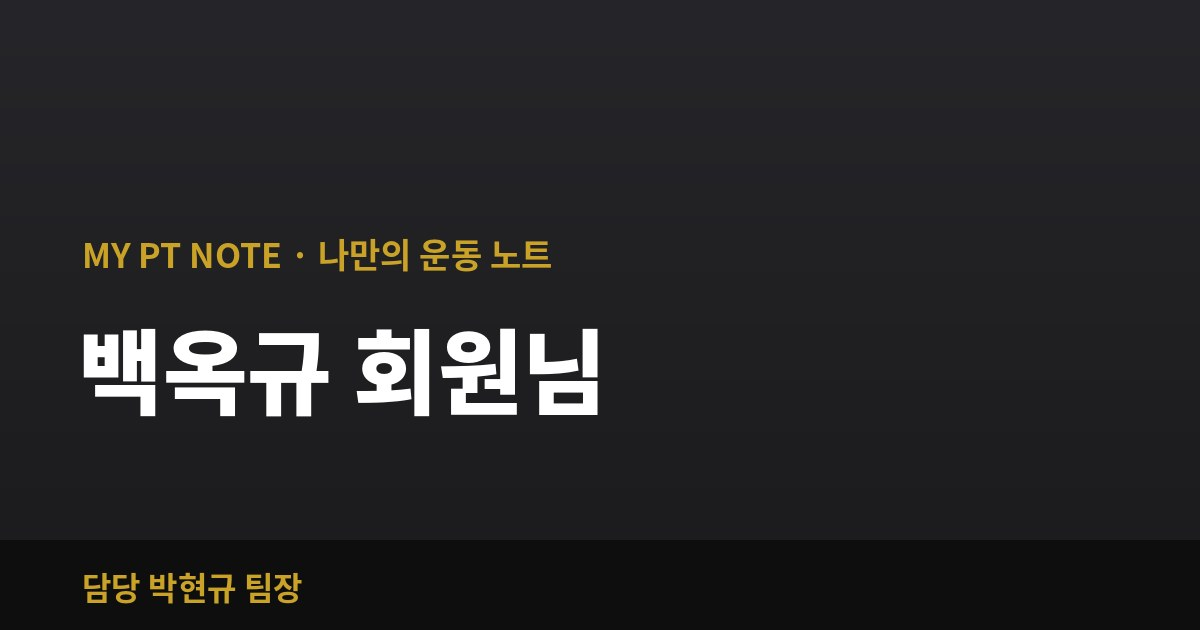
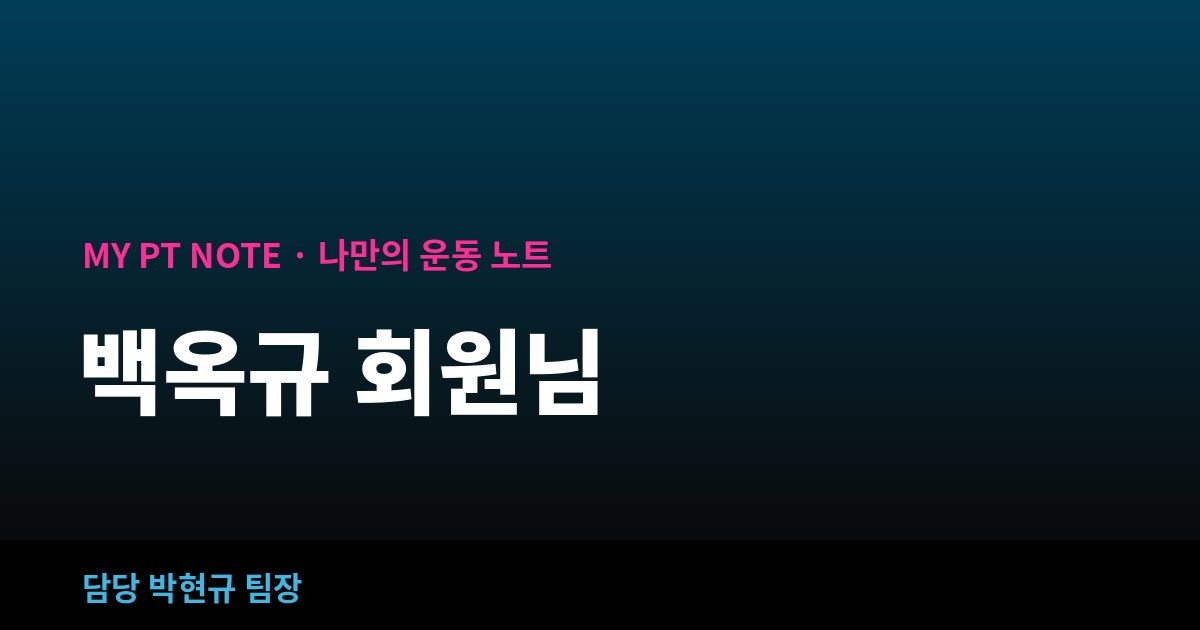
남성 기본 테마: 제트 블랙·세룰리언·네온 로즈 + 움직이는 그림 W·N 색 적용
Claude-Session: https://claude.ai/code/session_01RdMHchgwqezTpV2LneVZW2

diff --git a/coach-co8rde/index.html b/coach-co8rde/index.html
@@ -16,8 +16,8 @@
 <link rel="preconnect" href="https://fonts.googleapis.com">
 <link rel="preconnect" href="https://fonts.gstatic.com" crossorigin>
 <link rel="stylesheet" href="https://fonts.googleapis.com/css2?family=Noto+Sans+KR:wght@400;500;700;900&display=swap">
-<link rel="stylesheet" href="/assets/style.css?v=2611240038">
-<script src="/assets/site.js?v=2611240038"></script>
+<link rel="stylesheet" href="/assets/style.css?v=2611240040">
+<script src="/assets/site.js?v=2611240040"></script>
 <style>
 .wrap { padding-bottom: calc(40px + env(safe-area-inset-bottom, 0px)); }
 .sum { display: grid; grid-template-columns: repeat(3, 1fr); gap: 8px; }
@@ -371,7 +371,7 @@ body.pad .mcard.sel .av { outline: 3px solid var(--key); outline-offset: 3px; }
   "use strict";
   /* 옛 화면 자동 새로고침 (2026-11-23 팀장 "여기도 짐토스 있잖아" — 홈 화면 앱이 예전 페이지를 붙잡고 있었음). app.js와 같은 방식: assets/ver.txt가 지금 site.js ?v= 보다 새것이면 한 번 새로고침 */
   (function () {
-    var sc = document.querySelector('script[src*="/assets/site.js?v=2611240038"]'), cur = sc && (sc.getAttribute("src").match(/[?&]v=(\w+)/) || [])[1];
+    var sc = document.querySelector('script[src*="/assets/site.js?v=2611240040"]'), cur = sc && (sc.getAttribute("src").match(/[?&]v=(\w+)/) || [])[1];
     if (!cur || !window.fetch) return;
     function chk() {
       fetch("/assets/ver.txt?t=" + Date.now(), { cache: "no-store" }).then(function (r) { return r.ok ? r.text() : ""; }).then(function (v) {
@@ -1010,7 +1010,7 @@ body.pad .mcard.sel .av { outline: 3px solid var(--key); outline-offset: 3px; }
      2026-11-12 처음엔 Web Worker였는데 아이폰 사파리에서 동욱쌤 회원이 안 보여서 iframe으로 바꿈 */
   var XF = '<!doctype html><meta charset="utf-8"><script>(function(){var d=__D__,t="?t="+Date.now(),o={api:"",members:[]};' +
     'function ld(u){return new Promise(function(ok){var s=document.createElement("script");s.src=u;s.onload=s.onerror=function(){ok()};document.head.appendChild(s);});}' +
-    'ld(d.site+"/assets/site.js?v=2611240038"+t).then(function(){o.api=(window.SITE||{}).att_api||"";return ld(d.site+"/"+d.coach+"/members.js"+t);}).then(function(){' +
+    'ld(d.site+"/assets/site.js?v=2611240040"+t).then(function(){o.api=(window.SITE||{}).att_api||"";return ld(d.site+"/"+d.coach+"/members.js"+t);}).then(function(){' +
     'var L=(window.COACH_MEMBERS||[]).filter(function(x){return /^[a-z0-9-]{3,40}$/.test(x)}),i=0;' +
     'function nx(){if(i>=L.length){parent.postMessage(JSON.stringify({xpt:d.id,o:o}),"*");return;}var sl=L[i++];window.MEMBER=null;' +
     'ld(d.site+"/m/"+sl+"/data.js"+t).then(function(){if(window.MEMBER){try{o.members.push({slug:sl,M:JSON.parse(JSON.stringify(window.MEMBER))});}catch(e){}}nx();});}nx();});})();<\/script>';

diff --git a/m/sample-k7d2qx/index.html b/m/sample-k7d2qx/index.html
@@ -6,7 +6,7 @@
 <title>홍길동 회원님 PT 노트</title>
 <meta name="description" content="내 루틴, 자세 복습지, 식단, 선생님 공지를 한곳에서">
 <meta name="robots" content="noindex, nofollow">
-<meta name="theme-color" content="#1C1C1E">
+<meta name="theme-color" content="#0A0A0A">
 <meta name="apple-mobile-web-app-capable" content="yes">
 <meta name="mobile-web-app-capable" content="yes">
 <meta name="apple-mobile-web-app-status-bar-style" content="default">
@@ -17,14 +17,14 @@
 <meta property="og:image" content="https://gusrb0259-png.github.io/m/sample-k7d2qx/og.jpg">
 <meta property="og:image:width" content="1200">
 <meta property="og:image:height" content="630">
-<link rel="icon" href="../../assets/icon-m-192.png">
+<link rel="icon" href="../../assets/icon-n-192.png">
 <link rel="manifest" href="manifest.webmanifest">
-<link rel="apple-touch-icon" href="../../assets/icon-m-180.png">
+<link rel="apple-touch-icon" href="../../assets/icon-n-180.png">
 <link rel="preconnect" href="https://fonts.googleapis.com">
 <link rel="preconnect" href="https://fonts.gstatic.com" crossorigin>
 <link rel="stylesheet" href="https://fonts.googleapis.com/css2?family=Noto+Sans+KR:wght@400;500;700;900&display=swap">
 <script>/* 페이지 넘어갈 때 부드럽게 (2026-11-12) */try{if(localStorage.getItem("ptcoach")||sessionStorage.getItem("ptcoach"))document.documentElement.classList.add("nosp")}catch(e){}addEventListener("pagereveal",function(e){if(!e.viewTransition)return;var d=null;try{d=sessionStorage.getItem("vtdir");sessionStorage.removeItem("vtdir")}catch(x){}var n=window.navigation&&navigation.activation;if(d==="back"||(d!=="fwd"&&n&&n.navigationType==="traverse"))document.documentElement.classList.add("vt-back");e.viewTransition.finished.then(function(){document.documentElement.classList.remove("vt-back")},function(){})});</script>
-<link rel="stylesheet" href="../../assets/style.css?v=2611240038">
+<link rel="stylesheet" href="../../assets/style.css?v=2611240040">
 </head>
 <body>
 <svg width="0" height="0" style="position:absolute" aria-hidden="true">
@@ -41,8 +41,8 @@
   <a href="#notice" data-tab="notice"><svg viewBox="0 0 24 24" fill="none" stroke="currentColor" stroke-width="2" stroke-linejoin="round"><path d="M4 10v4h3l6 4V6L7 10z"/><path d="M16.5 9.5a3.5 3.5 0 0 1 0 5M19 7a7 7 0 0 1 0 10" stroke-linecap="round"/></svg>공지</a>
 </div></nav>
 <script src="data.js"></script>
-<script src="../../assets/site.js?v=2611240038"></script>
-<script src="../../assets/exicons.js?v=2611240038"></script>
-<script src="../../assets/app.js?v=2611240038"></script>
+<script src="../../assets/site.js?v=2611240040"></script>
+<script src="../../assets/exicons.js?v=2611240040"></script>
+<script src="../../assets/app.js?v=2611240040"></script>
 </body>
 </html>

diff --git a/m/okgyu-s4os2w/index.html b/m/okgyu-s4os2w/index.html
@@ -6,7 +6,7 @@
 <title>백옥규 회원님 PT 노트</title>
 <meta name="description" content="내 루틴, 자세 복습지, 식단, 선생님 공지를 한곳에서">
 <meta name="robots" content="noindex, nofollow">
-<meta name="theme-color" content="#1C1C1E">
+<meta name="theme-color" content="#0A0A0A">
 <meta name="apple-mobile-web-app-capable" content="yes">
 <meta name="mobile-web-app-capable" content="yes">
 <meta name="apple-mobile-web-app-status-bar-style" content="default">
@@ -17,14 +17,14 @@
 <meta property="og:image" content="https://gusrb0259-png.github.io/m/okgyu-s4os2w/og.jpg">
 <meta property="og:image:width" content="1200">
 <meta property="og:image:height" content="630">
-<link rel="icon" href="../../assets/icon-m-192.png">
+<link rel="icon" href="../../assets/icon-n-192.png">
 <link rel="manifest" href="manifest.webmanifest">
-<link rel="apple-touch-icon" href="../../assets/icon-m-180.png">
+<link rel="apple-touch-icon" href="../../assets/icon-n-180.png">
 <link rel="preconnect" href="https://fonts.googleapis.com">
 <link rel="preconnect" href="https://fonts.gstatic.com" crossorigin>
 <link rel="stylesheet" href="https://fonts.googleapis.com/css2?family=Noto+Sans+KR:wght@400;500;700;900&display=swap">
 <script>/* 페이지 넘어갈 때 부드럽게 (2026-11-12) */try{if(localStorage.getItem("ptcoach")||sessionStorage.getItem("ptcoach"))document.documentElement.classList.add("nosp")}catch(e){}addEventListener("pagereveal",function(e){if(!e.viewTransition)return;var d=null;try{d=sessionStorage.getItem("vtdir");sessionStorage.removeItem("vtdir")}catch(x){}var n=window.navigation&&navigation.activation;if(d==="back"||(d!=="fwd"&&n&&n.navigationType==="traverse"))document.documentElement.classList.add("vt-back");e.viewTransition.finished.then(function(){document.documentElement.classList.remove("vt-back")},function(){})});</script>
-<link rel="stylesheet" href="../../assets/style.css?v=2611240038">
+<link rel="stylesheet" href="../../assets/style.css?v=2611240040">
 </head>
 <body>
 <svg width="0" height="0" style="position:absolute" aria-hidden="true">
@@ -41,8 +41,8 @@
   <a href="#notice" data-tab="notice"><svg viewBox="0 0 24 24" fill="none" stroke="currentColor" stroke-width="2" stroke-linejoin="round"><path d="M4 10v4h3l6 4V6L7 10z"/><path d="M16.5 9.5a3.5 3.5 0 0 1 0 5M19 7a7 7 0 0 1 0 10" stroke-linecap="round"/></svg>공지</a>
 </div></nav>
 <script src="data.js"></script>
-<script src="../../assets/site.js?v=2611240038"></script>
-<script src="../../assets/exicons.js?v=2611240038"></script>
-<script src="../../assets/app.js?v=2611240038"></script>
+<script src="../../assets/site.js?v=2611240040"></script>
+<script src="../../assets/exicons.js?v=2611240040"></script>
+<script src="../../assets/app.js?v=2611240040"></script>
 </body>
 </html>

diff --git a/404.html b/404.html
@@ -15,7 +15,7 @@
 <link rel="preconnect" href="https://fonts.googleapis.com">
 <link rel="preconnect" href="https://fonts.gstatic.com" crossorigin>
 <link rel="stylesheet" href="https://fonts.googleapis.com/css2?family=Noto+Sans+KR:wght@400;500;700;900&display=swap">
-<link rel="stylesheet" href="/assets/style.css?v=2611240038">
+<link rel="stylesheet" href="/assets/style.css?v=2611240040">
 <!-- 2026-11-12: 선생님 페이지 "＋ 새 회원 노트 만들기"로 만든 회원은 폴더(data.js)가 없음 → GitHub Pages가 이 404.html을 보여 줌.
      주소 /m/<주소>/ 에서 회원 주소를 읽고, 출석 창고 저장소(pub:m:<주소>:profile)에서 노트 정보를 받아 app.js로 그림. -->
 </head>
@@ -33,7 +33,7 @@
   <a href="#diet" data-tab="diet"><svg viewBox="0 0 24 24" fill="none" stroke="currentColor" stroke-width="2" stroke-linecap="round"><circle cx="13" cy="13" r="6.5"/><path d="M4 4v6M6.5 4v6M4 7h2.5M5.2 10v10"/></svg>식단</a>
   <a href="#notice" data-tab="notice"><svg viewBox="0 0 24 24" fill="none" stroke="currentColor" stroke-width="2" stroke-linejoin="round"><path d="M4 10v4h3l6 4V6L7 10z"/><path d="M16.5 9.5a3.5 3.5 0 0 1 0 5M19 7a7 7 0 0 1 0 10" stroke-linecap="round"/></svg>공지</a>
 </div></nav>
-<script src="/assets/site.js?v=2611240038"></script>
+<script src="/assets/site.js?v=2611240040"></script>
 <script>
 (function () {
   var mm = location.pathname.match(/^\/m\/([a-z0-9-]{3,40})\/?$/);
@@ -53,10 +53,11 @@
     document.title = nm;
     document.getElementById("barName").textContent = nm;
     if (M.sex === "F") { var w0 = !M.theme; document.getElementById("tc").setAttribute("content", w0 ? "#3A1D37" : "#D35C14"); document.getElementById("ic").href = "/assets/icon-" + (w0 ? "w" : "f") + "-192.png"; document.getElementById("ati").href = "/assets/icon-" + (w0 ? "w" : "f") + "-180.png"; }
+    else if (!M.theme) { document.getElementById("tc").setAttribute("content", "#0A0A0A"); document.getElementById("ic").href = "/assets/icon-n-192.png"; document.getElementById("ati").href = "/assets/icon-n-180.png"; }
     document.documentElement.setAttribute("data-sex", M.sex === "F" ? "F" : "M");
     view.innerHTML = "";
-    var a = document.createElement("script"); a.src = "/assets/exicons.js?v=2611240038";
-    a.onload = a.onerror = function () { var b = document.createElement("script"); b.src = "/assets/app.js?v=2611240038"; document.body.appendChild(b); };
+    var a = document.createElement("script"); a.src = "/assets/exicons.js?v=2611240040";
+    a.onload = a.onerror = function () { var b = document.createElement("script"); b.src = "/assets/app.js?v=2611240040"; document.body.appendChild(b); };
     document.body.appendChild(a);
   }
   var LS = "ptnote:" + slug + ":profile", cached = null;

diff --git a/assets/exicons.js b/assets/exicons.js
@@ -451,6 +451,7 @@
   var STY = {
     M: { tile: "#F0F0F2", fig: "#1C1C1E", eq: "#8792A8", eq2: "#C5CCDA", floor: "#C5CCDA", hl: "#D4A62A" },
     F: { tile: "#FDF0E6", fig: "#D35C14", eq: "#A8968A", eq2: "#EAD9CC", floor: "#EAD9CC", hl: "#4A2A17" },
+    N: { tile: "#EEF5F9", fig: "#0A0A0A", eq: "#8792A8", eq2: "#C9D6DF", floor: "#C9D6DF", hl: "#FF2D95" },   /* 남성 기본 테마 2026-11-24 제트 블랙·세룰리언·네온 로즈 */
     W: { tile: "#F7EEF6", fig: "#A868A6", eq: "#A5939F", eq2: "#EADBE6", floor: "#EADBE6", hl: "#F59255" },   /* 여성 기본 테마 2026-11-24 애프리콧·플럼·모브 */
     P: { tile: "#FFF0F5", fig: "#EE86A8", eq: "#B9A3AE", eq2: "#F3DCE5", floor: "#F3DCE5", hl: "#7A4636" },   /* 회원 테마 pinkcheck */
     C: { tile: "#FBF2E8", fig: "#A97E5D", eq: "#B5A496", eq2: "#EEDDCB", floor: "#EEDDCB", hl: "#C26A55" }   /* 회원 테마 chihuahua */
@@ -512,7 +513,7 @@
   function svg(key, opt) {
     opt = opt || {};
     var ex = EX[key]; if (!ex) return "";
-    var sex = opt.sex === "F" ? "F" : "M", still = !!opt.still, ck = key + sex + (still ? "s" : "a");
+    var sex = /^(F|W|N)$/.test(opt.sex) ? opt.sex : "M", still = !!opt.still, ck = key + sex + (still ? "s" : "a");
     if (!cache[ck]) {
       var S = STY[sex], base = shapes(ex, S, still ? ex.t : 0), frames = still ? null : FR.map(function (f) { return shapes(ex, S, f.t); });
       var base0 = ex.slow ? 3.6 : 2.8, hold = ex.hold || 0, dur = f1(base0 + hold) + "s";
@@ -538,7 +539,7 @@
   window.EXI = { has: function (k) { return !!EX[k]; }, keys: function () { return Object.keys(EX); }, noMotion: noMotion,
     svg: function (k, o) { if (noMotion) { o = o || {}; o.still = true; } return svg(k, o); },
     frame: function (k, t, sex) {   /* 확인용: 특정 순간의 멈춘 그림 */
-      var S = STY[sex === "F" ? "F" : "M"], h = '<rect x=".75" y=".75" width="98.5" height="98.5" rx="23" fill="' + S.tile + '"/>';
+      var S = STY[/^(F|W|N)$/.test(sex) ? sex : "M"], h = '<rect x=".75" y=".75" width="98.5" height="98.5" rx="23" fill="' + S.tile + '"/>';
       shapes(EX[k], S, t).forEach(function (o) { var a = "", d; for (d in o.dyn) a += " " + d + '="' + o.dyn[d] + '"'; h += "<" + o.tag + " " + o.fix + a + "/>"; });
       return '<svg viewBox="0 0 100 100">' + h + "</svg>";
     } };

diff --git a/assets/app.js b/assets/app.js
@@ -117,7 +117,7 @@
     "스미스 슈러그": "smith_shrug", "인클라인 덤벨 컬": "incline_db_curl", "스파이더 컬": "spider_curl", "프리처 컬 머신": "preacher_curl_machine", "프리쳐컬 머신": "preacher_curl_machine", "덤벨 숄더 프레스": "shoulder_press", "랙 밴드 푸쉬업": "band_push_up",
     "체스트 프레스 머신": "chest_press", "플랫 벤치프레스 머신": "lying_chest_press", "플랫 벤치 프레스 머신": "lying_chest_press", "힙쓰러스트 머신": "hip_thrust", "몬스터 글루트": "hip_thrust", "몬스터글루트": "hip_thrust", "케이블 힙 킥백": "cable_kickback", "힙 익스텐션": "back_extension"
   };
-  function icv() { return THEME === "F" && !THM ? "W" : THEME; }   /* 2026-11-24 여성 기본 테마(애프리콧·플럼·모브) 그림 = W, 회원 테마(pinkcheck·chihuahua)는 예전 F */
+  function icv() { return THM ? THEME : THEME === "F" ? "W" : "N"; }   /* 기본 테마 그림: 여 W(애프리콧·플럼·모브) · 남 N(블랙·세룰리언·네온 로즈, 2026-11-24) */   /* 2026-11-24 여성 기본 테마(애프리콧·플럼·모브) 그림 = W, 회원 테마(pinkcheck·chihuahua)는 예전 F */
   function iconSrc(key) { return BASE + "icons/" + icv() + "/" + key + ".png"; }
   function iconOf(it) {
     if (it.icon) return it.icon;
@@ -4991,7 +4991,7 @@
     var standalone = !!((window.matchMedia && matchMedia("(display-mode: standalone)").matches) || navigator.standalone === true);
     return { ios: ios, and: and, kakao: kakao, inapp: inapp, sam: sam, standalone: standalone, mobile: ios || and };
   }
-  function instIcon() { return BASE + "icon-" + (icv() === "W" ? "w" : THEME === "F" ? "f" : "m") + "-192.png"; }
+  function instIcon() { return BASE + "icon-" + icv().toLowerCase() + "-192.png"; }
   var IN_SV = {
     share: '<svg viewBox="0 0 24 24" fill="none" stroke="currentColor" stroke-width="2" stroke-linecap="round" stroke-linejoin="round"><path d="M12 3v12"/><path d="m7 8 5-5 5 5"/><path d="M6 11H5a1 1 0 0 0-1 1v8a1 1 0 0 0 1 1h14a1 1 0 0 0 1-1v-8a1 1 0 0 0-1-1h-1"/></svg>',
     plus: '<svg viewBox="0 0 24 24" fill="none" stroke="currentColor" stroke-width="2" stroke-linecap="round"><rect x="3.5" y="3.5" width="17" height="17" rx="4"/><path d="M12 8v8M8 12h8"/></svg>',

diff --git a/m/chaewon-ryfvmy/index.html b/m/chaewon-ryfvmy/index.html
@@ -24,7 +24,7 @@
 <link rel="preconnect" href="https://fonts.gstatic.com" crossorigin>
 <link rel="stylesheet" href="https://fonts.googleapis.com/css2?family=Noto+Sans+KR:wght@400;500;700;900&display=swap">
 <script>/* 페이지 넘어갈 때 부드럽게 (2026-11-12) */try{if(localStorage.getItem("ptcoach")||sessionStorage.getItem("ptcoach"))document.documentElement.classList.add("nosp")}catch(e){}addEventListener("pagereveal",function(e){if(!e.viewTransition)return;var d=null;try{d=sessionStorage.getItem("vtdir");sessionStorage.removeItem("vtdir")}catch(x){}var n=window.navigation&&navigation.activation;if(d==="back"||(d!=="fwd"&&n&&n.navigationType==="traverse"))document.documentElement.classList.add("vt-back");e.viewTransition.finished.then(function(){document.documentElement.classList.remove("vt-back")},function(){})});</script>
-<link rel="stylesheet" href="../../assets/style.css?v=2611240038">
+<link rel="stylesheet" href="../../assets/style.css?v=2611240040">
 </head>
 <body>
 <svg width="0" height="0" style="position:absolute" aria-hidden="true">
@@ -41,8 +41,8 @@
   <a href="#notice" data-tab="notice"><svg viewBox="0 0 24 24" fill="none" stroke="currentColor" stroke-width="2" stroke-linejoin="round"><path d="M4 10v4h3l6 4V6L7 10z"/><path d="M16.5 9.5a3.5 3.5 0 0 1 0 5M19 7a7 7 0 0 1 0 10" stroke-linecap="round"/></svg>공지</a>
 </div></nav>
 <script src="data.js"></script>
-<script src="../../assets/site.js?v=2611240038"></script>
-<script src="../../assets/exicons.js?v=2611240038"></script>
-<script src="../../assets/app.js?v=2611240038"></script>
+<script src="../../assets/site.js?v=2611240040"></script>
+<script src="../../assets/exicons.js?v=2611240040"></script>
+<script src="../../assets/app.js?v=2611240040"></script>
 </body>
 </html>

diff --git a/m/dahye-dfpttw/index.html b/m/dahye-dfpttw/index.html
@@ -24,7 +24,7 @@
 <link rel="preconnect" href="https://fonts.gstatic.com" crossorigin>
 <link rel="stylesheet" href="https://fonts.googleapis.com/css2?family=Noto+Sans+KR:wght@400;500;700;900&display=swap">
 <script>/* 페이지 넘어갈 때 부드럽게 (2026-11-12) */try{if(localStorage.getItem("ptcoach")||sessionStorage.getItem("ptcoach"))document.documentElement.classList.add("nosp")}catch(e){}addEventListener("pagereveal",function(e){if(!e.viewTransition)return;var d=null;try{d=sessionStorage.getItem("vtdir");sessionStorage.removeItem("vtdir")}catch(x){}var n=window.navigation&&navigation.activation;if(d==="back"||(d!=="fwd"&&n&&n.navigationType==="traverse"))document.documentElement.classList.add("vt-back");e.viewTransition.finished.then(function(){document.documentElement.classList.remove("vt-back")},function(){})});</script>
-<link rel="stylesheet" href="../../assets/style.css?v=2611240038">
+<link rel="stylesheet" href="../../assets/style.css?v=2611240040">
 </head>
 <body>
 <svg width="0" height="0" style="position:absolute" aria-hidden="true">
@@ -41,8 +41,8 @@
   <a href="#notice" data-tab="notice"><svg viewBox="0 0 24 24" fill="none" stroke="currentColor" stroke-width="2" stroke-linejoin="round"><path d="M4 10v4h3l6 4V6L7 10z"/><path d="M16.5 9.5a3.5 3.5 0 0 1 0 5M19 7a7 7 0 0 1 0 10" stroke-linecap="round"/></svg>공지</a>
 </div></nav>
 <script src="data.js"></script>
-<script src="../../assets/site.js?v=2611240038"></script>
-<script src="../../assets/exicons.js?v=2611240038"></script>
-<script src="../../assets/app.js?v=2611240038"></script>
+<script src="../../assets/site.js?v=2611240040"></script>
+<script src="../../assets/exicons.js?v=2611240040"></script>
+<script src="../../assets/app.js?v=2611240040"></script>
 </body>
 </html>

diff --git a/m/eunjeong-tojo9l/index.html b/m/eunjeong-tojo9l/index.html
@@ -24,7 +24,7 @@
 <link rel="preconnect" href="https://fonts.gstatic.com" crossorigin>
 <link rel="stylesheet" href="https://fonts.googleapis.com/css2?family=Noto+Sans+KR:wght@400;500;700;900&display=swap">
 <script>/* 페이지 넘어갈 때 부드럽게 (2026-11-12) */try{if(localStorage.getItem("ptcoach")||sessionStorage.getItem("ptcoach"))document.documentElement.classList.add("nosp")}catch(e){}addEventListener("pagereveal",function(e){if(!e.viewTransition)return;var d=null;try{d=sessionStorage.getItem("vtdir");sessionStorage.removeItem("vtdir")}catch(x){}var n=window.navigation&&navigation.activation;if(d==="back"||(d!=="fwd"&&n&&n.navigationType==="traverse"))document.documentElement.classList.add("vt-back");e.viewTransition.finished.then(function(){document.documentElement.classList.remove("vt-back")},function(){})});</script>
-<link rel="stylesheet" href="../../assets/style.css?v=2611240038">
+<link rel="stylesheet" href="../../assets/style.css?v=2611240040">
 </head>
 <body>
 <svg width="0" height="0" style="position:absolute" aria-hidden="true">
@@ -41,8 +41,8 @@
   <a href="#notice" data-tab="notice"><svg viewBox="0 0 24 24" fill="none" stroke="currentColor" stroke-width="2" stroke-linejoin="round"><path d="M4 10v4h3l6 4V6L7 10z"/><path d="M16.5 9.5a3.5 3.5 0 0 1 0 5M19 7a7 7 0 0 1 0 10" stroke-linecap="round"/></svg>공지</a>
 </div></nav>
 <script src="data.js"></script>
-<script src="../../assets/site.js?v=2611240038"></script>
-<script src="../../assets/exicons.js?v=2611240038"></script>
-<script src="../../assets/app.js?v=2611240038"></script>
+<script src="../../assets/site.js?v=2611240040"></script>
+<script src="../../assets/exicons.js?v=2611240040"></script>
+<script src="../../assets/app.js?v=2611240040"></script>
 </body>
 </html>

diff --git a/m/heeran-bh16wb/index.html b/m/heeran-bh16wb/index.html
@@ -24,7 +24,7 @@
 <link rel="preconnect" href="https://fonts.gstatic.com" crossorigin>
 <link rel="stylesheet" href="https://fonts.googleapis.com/css2?family=Noto+Sans+KR:wght@400;500;700;900&display=swap">
 <script>/* 페이지 넘어갈 때 부드럽게 (2026-11-12) */try{if(localStorage.getItem("ptcoach")||sessionStorage.getItem("ptcoach"))document.documentElement.classList.add("nosp")}catch(e){}addEventListener("pagereveal",function(e){if(!e.viewTransition)return;var d=null;try{d=sessionStorage.getItem("vtdir");sessionStorage.removeItem("vtdir")}catch(x){}var n=window.navigation&&navigation.activation;if(d==="back"||(d!=="fwd"&&n&&n.navigationType==="traverse"))document.documentElement.classList.add("vt-back");e.viewTransition.finished.then(function(){document.documentElement.classList.remove("vt-back")},function(){})});</script>
-<link rel="stylesheet" href="../../assets/style.css?v=2611240038">
+<link rel="stylesheet" href="../../assets/style.css?v=2611240040">
 </head>
 <body>
 <svg width="0" height="0" style="position:absolute" aria-hidden="true">
@@ -41,8 +41,8 @@
   <a href="#notice" data-tab="notice"><svg viewBox="0 0 24 24" fill="none" stroke="currentColor" stroke-width="2" stroke-linejoin="round"><path d="M4 10v4h3l6 4V6L7 10z"/><path d="M16.5 9.5a3.5 3.5 0 0 1 0 5M19 7a7 7 0 0 1 0 10" stroke-linecap="round"/></svg>공지</a>
 </div></nav>
 <script src="data.js"></script>
-<script src="../../assets/site.js?v=2611240038"></script>
-<script src="../../assets/exicons.js?v=2611240038"></script>
-<script src="../../assets/app.js?v=2611240038"></script>
+<script src="../../assets/site.js?v=2611240040"></script>
+<script src="../../assets/exicons.js?v=2611240040"></script>
+<script src="../../assets/app.js?v=2611240040"></script>
 </body>
 </html>

diff --git a/m/jihye-693h3o/index.html b/m/jihye-693h3o/index.html
@@ -24,7 +24,7 @@
 <link rel="preconnect" href="https://fonts.gstatic.com" crossorigin>
 <link rel="stylesheet" href="https://fonts.googleapis.com/css2?family=Noto+Sans+KR:wght@400;500;700;900&display=swap">
 <script>/* 페이지 넘어갈 때 부드럽게 (2026-11-12) */try{if(localStorage.getItem("ptcoach")||sessionStorage.getItem("ptcoach"))document.documentElement.classList.add("nosp")}catch(e){}addEventListener("pagereveal",function(e){if(!e.viewTransition)return;var d=null;try{d=sessionStorage.getItem("vtdir");sessionStorage.removeItem("vtdir")}catch(x){}var n=window.navigation&&navigation.activation;if(d==="back"||(d!=="fwd"&&n&&n.navigationType==="traverse"))document.documentElement.classList.add("vt-back");e.viewTransition.finished.then(function(){document.documentElement.classList.remove("vt-back")},function(){})});</script>
-<link rel="stylesheet" href="../../assets/style.css?v=2611240038">
+<link rel="stylesheet" href="../../assets/style.css?v=2611240040">
 </head>
 <body>
 <svg width="0" height="0" style="position:absolute" aria-hidden="true">
@@ -41,8 +41,8 @@
   <a href="#notice" data-tab="notice"><svg viewBox="0 0 24 24" fill="none" stroke="currentColor" stroke-width="2" stroke-linejoin="round"><path d="M4 10v4h3l6 4V6L7 10z"/><path d="M16.5 9.5a3.5 3.5 0 0 1 0 5M19 7a7 7 0 0 1 0 10" stroke-linecap="round"/></svg>공지</a>
 </div></nav>
 <script src="data.js"></script>
-<script src="../../assets/site.js?v=2611240038"></script>
-<script src="../../assets/exicons.js?v=2611240038"></script>
-<script src="../../assets/app.js?v=2611240038"></script>
+<script src="../../assets/site.js?v=2611240040"></script>
+<script src="../../assets/exicons.js?v=2611240040"></script>
+<script src="../../assets/app.js?v=2611240040"></script>
 </body>
 </html>

diff --git a/m/jihyeon-d1xp2n/index.html b/m/jihyeon-d1xp2n/index.html
@@ -24,7 +24,7 @@
 <link rel="preconnect" href="https://fonts.gstatic.com" crossorigin>
 <link rel="stylesheet" href="https://fonts.googleapis.com/css2?family=Noto+Sans+KR:wght@400;500;700;900&display=swap">
 <script>/* 페이지 넘어갈 때 부드럽게 (2026-11-12) */try{if(localStorage.getItem("ptcoach")||sessionStorage.getItem("ptcoach"))document.documentElement.classList.add("nosp")}catch(e){}addEventListener("pagereveal",function(e){if(!e.viewTransition)return;var d=null;try{d=sessionStorage.getItem("vtdir");sessionStorage.removeItem("vtdir")}catch(x){}var n=window.navigation&&navigation.activation;if(d==="back"||(d!=="fwd"&&n&&n.navigationType==="traverse"))document.documentElement.classList.add("vt-back");e.viewTransition.finished.then(function(){document.documentElement.classList.remove("vt-back")},function(){})});</script>
-<link rel="stylesheet" href="../../assets/style.css?v=2611240038">
+<link rel="stylesheet" href="../../assets/style.css?v=2611240040">
 </head>
 <body>
 <svg width="0" height="0" style="position:absolute" aria-hidden="true">
@@ -41,8 +41,8 @@
   <a href="#notice" data-tab="notice"><svg viewBox="0 0 24 24" fill="none" stroke="currentColor" stroke-width="2" stroke-linejoin="round"><path d="M4 10v4h3l6 4V6L7 10z"/><path d="M16.5 9.5a3.5 3.5 0 0 1 0 5M19 7a7 7 0 0 1 0 10" stroke-linecap="round"/></svg>공지</a>
 </div></nav>
 <script src="data.js"></script>
-<script src="../../assets/site.js?v=2611240038"></script>
-<script src="../../assets/exicons.js?v=2611240038"></script>
-<script src="../../assets/app.js?v=2611240038"></script>
+<script src="../../assets/site.js?v=2611240040"></script>
+<script src="../../assets/exicons.js?v=2611240040"></script>
+<script src="../../assets/app.js?v=2611240040"></script>
 </body>
 </html>
